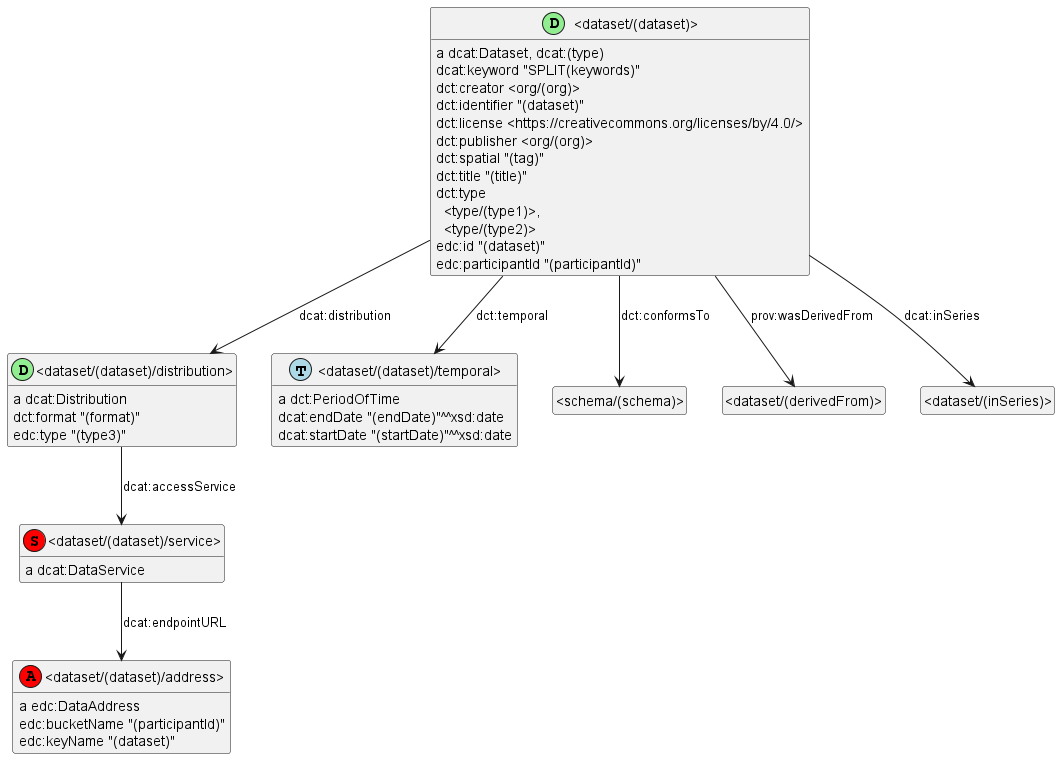
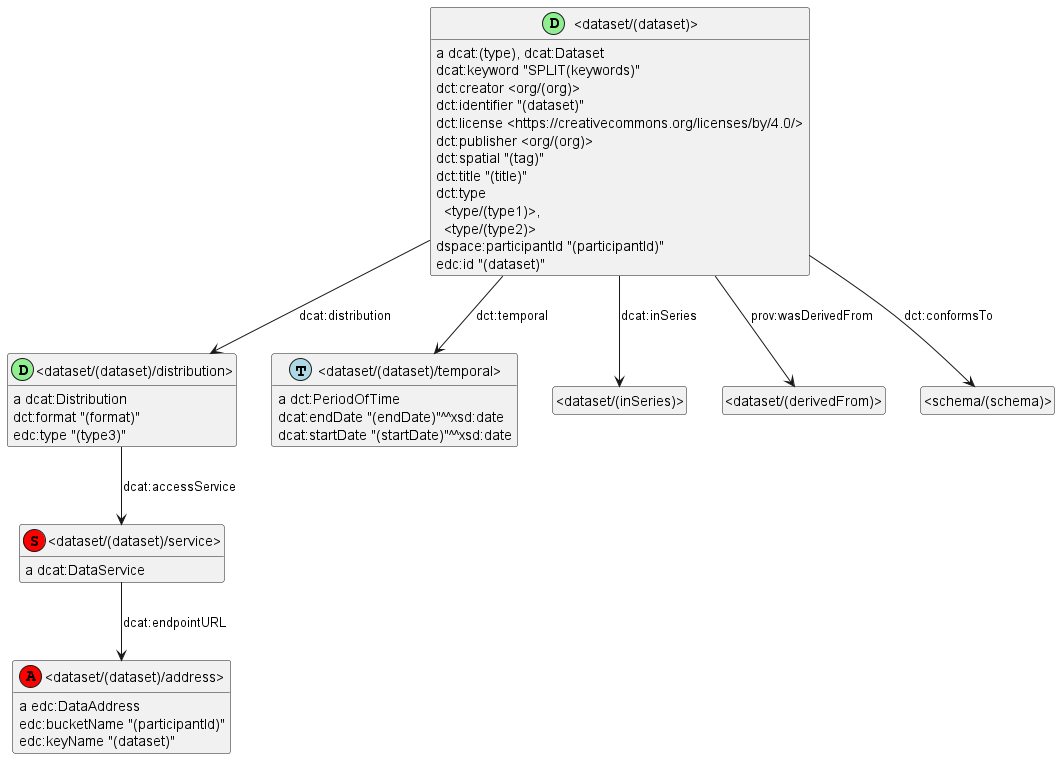
edc:participantId -> dspace:participantId

diff --git a/README.md b/README.md
@@ -23,6 +23,12 @@ UNDERPIN is a manufacturing dataspace that covers sensor data and predictive mai
     - [Wind Turbine Ontologies](#wind-turbine-ontologies)
 - [UNDERPIN Data Organization](#underpin-data-organization)
     - [UNDERPIN Semantic Data Loading](#underpin-semantic-data-loading)
+    - [Timeseries data loading based on semantic description](#timeseries-data-loading-based-on-semantic-description)
+        - [Creating a new influx asset](#creating-a-new-influx-asset)
+        - [Appending data to a influx dataset](#appending-data-to-a-influx-dataset)
+            - [#datatype annotation header](#datatype-annotation-header)
+            - [#constants annotation header dataset level](#constants-annotation-header-dataset-level)
+            - [#constants annotation header column level](#constants-annotation-header-column-level)
 - [UNDERPIN Data Model](#underpin-data-model)
     - [UNDERPIN Prefixes](#underpin-prefixes)
     - [UNDERPIN Thesauri](#underpin-thesauri)
@@ -656,7 +662,7 @@ Its columns and their mapping are described below.
 - `org`: URL pointing to a pre-registered `schema:Organization` eg `<org/MOH>`.
   Mapped to `dct:creator, dct:publisher`. This deviates from DSP which uses a string (mere name)
 - `participantId`: dataspace participant id, eg "BPNLY3SEIW". 
-  Mapped to `edc:participantId`
+  Mapped to `dspace:participantId` (was `edc:participantId`)
 - `title`: detailed name/description, eg 
   "Wind turbine WF1-WTG01 sensor data for 2022 as csv" or
   "Refinery compressor sensor data for 2022 as influx".
@@ -879,7 +885,7 @@ Here are the fields:
 - Individual fields:
   - (builtin) `_id`: URL. This is automatically populated by GraphDB
   - Id (`id`): `dct:identifier`
-  - Connector (`participantId`): `edc:participantId`
+  - Connector (`participantId`): `dspace:participantId|edc:participantId`
   - Title (`title`): `dct:title`
 - Full-text (`text`): `id|title|publisher|types|startDate|endDate|tag|schema|dct:conformsTo/csvw:column/dct:title`
 

diff --git a/dcat/README.md b/dcat/README.md
@@ -507,6 +507,10 @@ PREFIX odrl:       <http://www.w3.org/ns/odrl/2/>
         edc:id                  "12345" .
 ```
 
+Note: the newest version of EDC (deployed by UNDERPIN around Jul 2025) 
+uses the prop `dspace:participantId` instead of `edc:participantId`.
+This is not reflected above.
+
 ## Real Response Problems
 The real response has even more problems than the canned response:
 - Lacks `dcat:Distribution` (maybe the way we tried to add it was wrong)
